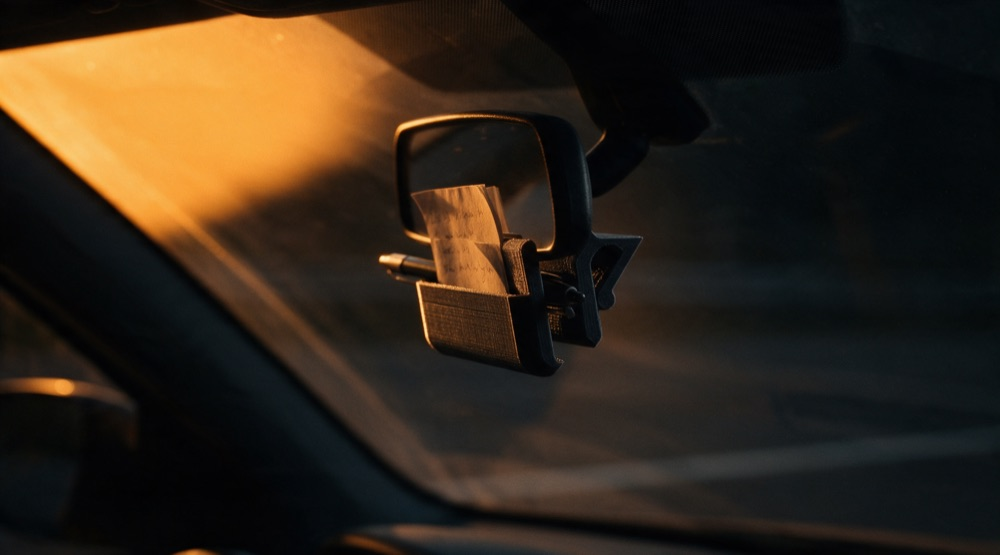
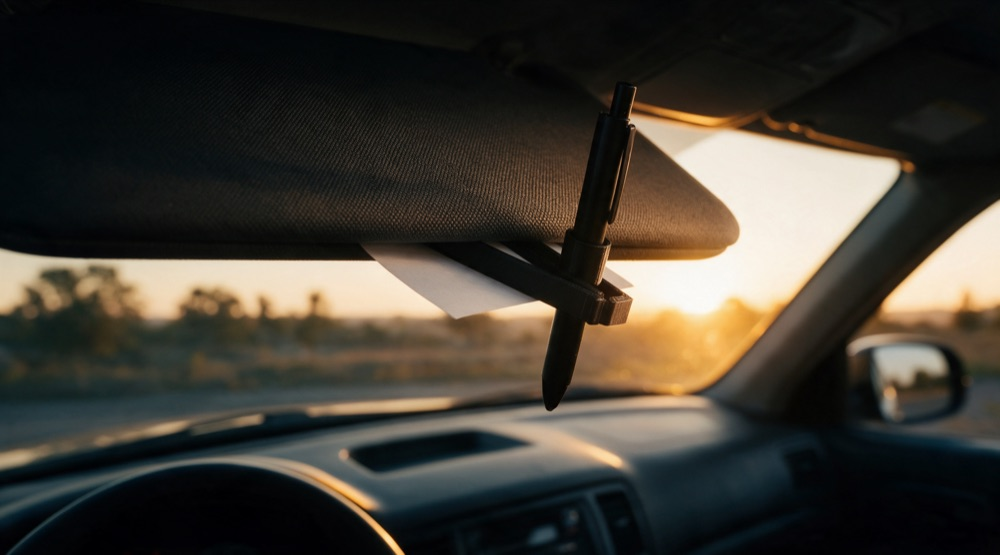
Sonnenblenden-Clip: Use-Case-Render neu + in die Shop-Galerie
Reroll zeigt den Clip jetzt an der heruntergeklappten Sonnenblende
(vorher flach auf dem Armaturenbrett). Als 6. Galerie-Thumbnail +
JSON-LD-image beim Produkt spiegel-clip-auto ergänzt — womit jetzt alle
5 Produkte einen produktgetreuen Use-Case-Render haben. gen-usecase-v2.sh
mitversioniert.

diff --git a/shop.html b/shop.html
@@ -148,6 +148,7 @@
             <button type="button" class="kf-gallery__thumb" data-src="assets/spiegel-clip-auto-3.jpg" aria-label="Bild 3 anzeigen"><img src="assets/th/spiegel-clip-auto-3.jpg" alt="" loading="lazy" width="300" height="225"></button>
             <button type="button" class="kf-gallery__thumb" data-src="assets/spiegel-clip-auto-4.jpg" aria-label="Bild 4 anzeigen"><img src="assets/th/spiegel-clip-auto-4.jpg" alt="" loading="lazy" width="300" height="225"></button>
             <button type="button" class="kf-gallery__thumb" data-src="assets/spiegel-clip-auto-5.jpg" aria-label="Bild 5 anzeigen"><img src="assets/th/spiegel-clip-auto-5.jpg" alt="" loading="lazy" width="300" height="225"></button>
+            <button type="button" class="kf-gallery__thumb" data-src="assets/spiegel-clip-auto-usecase.jpg" aria-label="An der Sonnenblende anzeigen"><img src="assets/th/spiegel-clip-auto-usecase.jpg" alt="" loading="lazy" width="300" height="225"></button>
           </div>
         </div>
         <div class="kf-prod__info">
@@ -439,7 +440,8 @@
     "description": "Schiebt sich auf die Sonnenblende und hält Notizen, Parkschein oder Einkaufsliste im Blickfeld. Seitliche Halterung für einen Stift.",
     "image": [
      "https://kniff.shop/assets/spiegel-clip-auto.jpg",
-     "https://kniff.shop/assets/spiegel-clip-auto-2.jpg"
+     "https://kniff.shop/assets/spiegel-clip-auto-2.jpg",
+     "https://kniff.shop/assets/spiegel-clip-auto-usecase.jpg"
     ],
     "brand": {
      "@type": "Brand",
